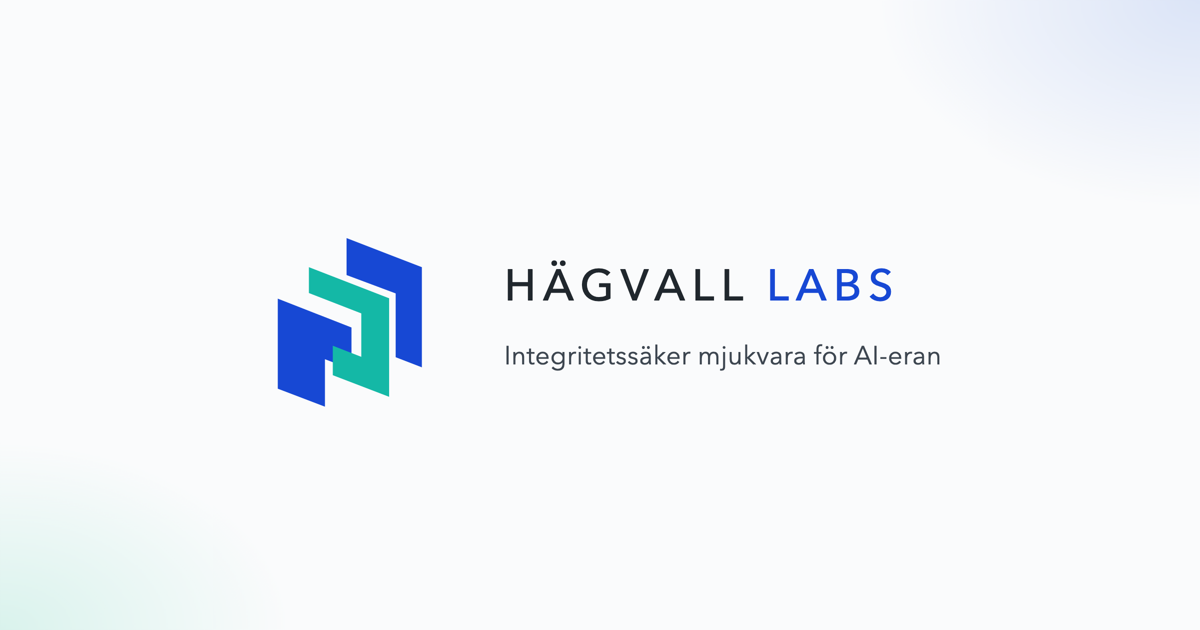
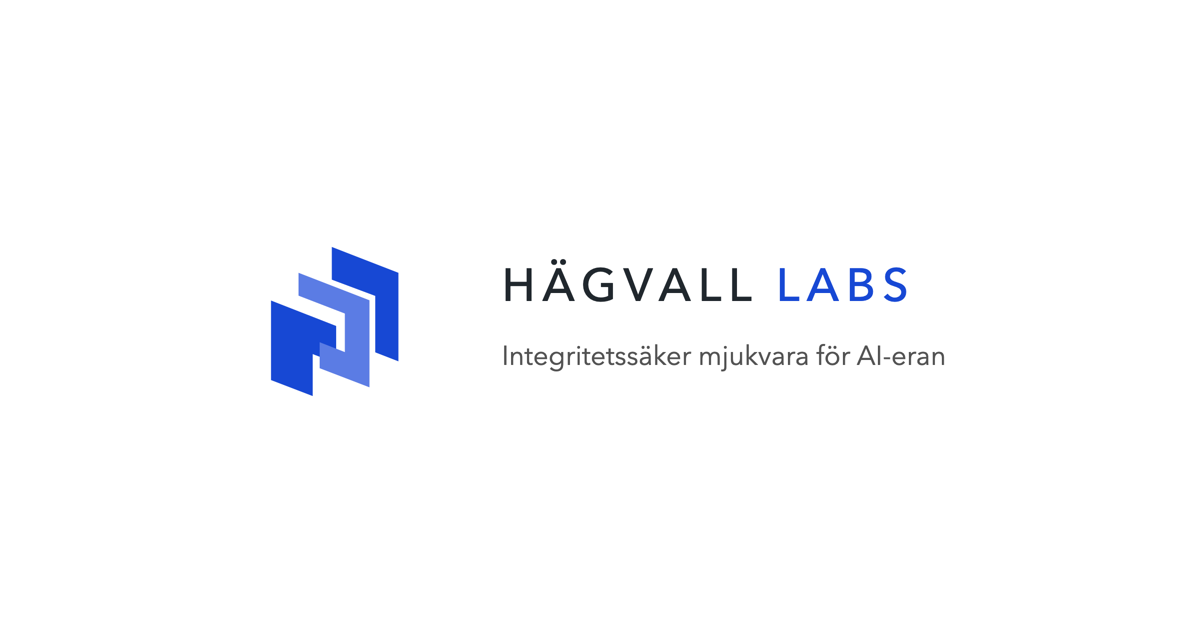
Refine monochrome cobalt brand styling

diff --git a/src/components/ui.tsx b/src/components/ui.tsx
@@ -46,21 +46,11 @@ export const sectionTitle = 'text-balance text-3xl font-semibold tracking-tight'
 export const sectionTitleSm =
   'text-balance text-2xl font-semibold tracking-tight'
 
-type Accent = 'cobalt' | 'teal'
+const cardClass =
+  'reveal rounded-2xl border border-neutral-200 bg-white p-6 transition-colors duration-200 hover:border-cobalt/40'
 
-// The teal accent uses teal-deep, not teal-brand: teal-brand lacks contrast
-// behind white text (see the brand rules in AGENTS.md).
-const cardClass: Record<Accent, string> = {
-  cobalt:
-    'reveal rounded-2xl border border-neutral-200 bg-white p-6 transition-colors duration-200 hover:border-cobalt/40',
-  teal: 'reveal rounded-2xl border border-neutral-200 bg-white p-6 transition-colors duration-200 hover:border-teal-deep/40',
-}
-
-const chipClass: Record<Accent, string> = {
-  cobalt:
-    'flex h-10 w-10 items-center justify-center rounded-xl bg-cobalt/10 text-cobalt',
-  teal: 'flex h-10 w-10 items-center justify-center rounded-xl bg-teal-deep/10 text-teal-deep',
-}
+const chipClass =
+  'flex h-10 w-10 items-center justify-center rounded-xl bg-cobalt/10 text-cobalt'
 
 /* Drives the .reveal entrances (classes in styles.css). Only elements
    strictly below the first viewport are hidden and animated in on scroll;
@@ -121,7 +111,7 @@ export function HeroGlows() {
       className="pointer-events-none absolute inset-0 -z-10"
     >
       <div className="glow glow-cobalt absolute -top-32 right-[-10%] size-112" />
-      <div className="glow glow-teal glow-delay absolute -left-48 top-40 size-96" />
+      <div className="glow glow-cobalt-soft glow-delay absolute -left-48 top-40 size-120" />
     </div>
   )
 }
@@ -131,12 +121,10 @@ export function HeroGlows() {
 export function Cards({
   items,
   icons,
-  accent,
   className,
 }: {
   items: ReadonlyArray<{ title: string; body: string }>
   icons?: ReadonlyArray<(props: { className?: string }) => React.ReactNode>
-  accent: Accent
   className?: string
 }) {
   return (
@@ -144,9 +132,9 @@ export function Cards({
       {items.map((item, i) => {
         const Icon = icons?.[i]
         return (
-          <div key={item.title} className={cardClass[accent]}>
+          <div key={item.title} className={cardClass}>
             <span
-              className={`${chipClass[accent]}${Icon ? '' : ' text-sm font-semibold'}`}
+              className={`${chipClass}${Icon ? '' : ' text-sm font-semibold'}`}
             >
               {Icon ? <Icon className="h-5 w-5" /> : i + 1}
             </span>

diff --git a/src/styles.css b/src/styles.css
@@ -3,8 +3,6 @@
 @theme {
   --color-cobalt: #1748d4;
   --color-cobalt-deep: #1239a8;
-  --color-teal-brand: #14b8a6;
-  --color-teal-deep: #0f766e;
   --color-ink: #20272d;
 }
 
@@ -99,11 +97,11 @@ textarea {
 /* Hero glows: radial gradients, not blur() filters. A large blurred element
    costs real paint time in the first frame and drags FCP below target. */
 .glow-cobalt {
-  background: radial-gradient(closest-side, rgb(23 72 212 / 0.14), transparent);
+  background: radial-gradient(closest-side, rgb(23 72 212 / 0.22), transparent);
 }
 
-.glow-teal {
-  background: radial-gradient(closest-side, rgb(20 184 166 / 0.14), transparent);
+.glow-cobalt-soft {
+  background: radial-gradient(closest-side, rgb(23 72 212 / 0.09), transparent);
 }
 
 @media (prefers-reduced-motion: no-preference) {

diff --git a/src/components/BrandSymbol.tsx b/src/components/BrandSymbol.tsx
@@ -5,10 +5,11 @@
 // The symbol geometry, single source for the component and the data-URI
 // favicon in __root.tsx. public/brand/hagvall-labs-symbol.svg carries the
 // same paths for the JSON-LD logo; regenerate it if these change.
+// Monochrome cobalt: the middle ribbon is a lighter tint of the same hue.
 export const BRAND_VIEWBOX = '210 110 580 580'
 export const BRAND_PATHS = [
   { fill: '#1748D4', d: 'M270 350 495 438 495 566 414 535 414 680 270 625Z' },
-  { fill: '#14B8A6', d: 'M365 254 610 349 610 650 438 584 438 494 525 528 525 395 365 333Z' },
+  { fill: '#5B7CE4', d: 'M365 254 610 349 610 650 438 584 438 494 525 528 525 395 365 333Z' },
   { fill: '#1748D4', d: 'M480 165 710 254 710 560 630 529 630 334 480 278Z' },
 ] as const
 

diff --git a/src/components/MaskeraPage.tsx b/src/components/MaskeraPage.tsx
@@ -450,7 +450,6 @@ export function MaskeraPage({ lang }: { lang: Lang }) {
           <Cards
             items={t.useCases}
             icons={useCaseIcons}
-            accent="cobalt"
             className="mt-8 sm:grid-cols-3"
           />
         </div>
@@ -463,7 +462,6 @@ export function MaskeraPage({ lang }: { lang: Lang }) {
         <Cards
           items={t.principles}
           icons={principleIcons}
-          accent="teal"
           className="mt-8 sm:grid-cols-3"
         />
       </section>

diff --git a/src/components/HomePage.tsx b/src/components/HomePage.tsx
@@ -505,7 +505,6 @@ export function HomePage({ lang }: { lang: Lang }) {
         <Cards
           items={t.services}
           icons={serviceIcons}
-          accent="cobalt"
           className="mt-10 sm:grid-cols-2"
         />
       </section>
@@ -519,7 +518,6 @@ export function HomePage({ lang }: { lang: Lang }) {
           <Cards
             items={t.build}
             icons={buildIcons}
-            accent="teal"
             className="mt-10 sm:grid-cols-3"
           />
         </div>

diff --git a/src/components/ContactPage.tsx b/src/components/ContactPage.tsx
@@ -145,11 +145,7 @@ export function ContactPage({ lang }: { lang: Lang }) {
           <h2 className={`reveal ${sectionTitleSm}`}>
             {t.stepsTitle}
           </h2>
-          <Cards
-            items={t.steps}
-            accent="cobalt"
-            className="mt-8 sm:grid-cols-3"
-          />
+          <Cards items={t.steps} className="mt-8 sm:grid-cols-3" />
         </div>
       </section>
     </>

diff --git a/AGENTS.md b/AGENTS.md
@@ -143,7 +143,7 @@ Known pitfalls that break the 100s (learned the hard way: don't reintroduce):
 - **A render-blocking stylesheet costs ~8 Performance points.** The Tailwind CSS is inlined in `<head>` in production (`styles.css?inline` in `__root.tsx`); dev uses a normal `?url` stylesheet link for HMR. Keep it that way.
 - **Any above-fold image request costs ~1 Performance point.** Lighthouse's simulated (lantern) LCP pessimistically adds a network round-trip for image requests near the LCP paint, even when the LCP element is text. That is why the logo is an inline SVG component (`src/components/BrandSymbol.tsx`, not `<img>`) and the favicon is a data URI in `__root.tsx`. Real `<img>` content is fine below the fold with `loading="lazy"`.
 - **The same RTT penalty applies to an extra JS chunk near the paint.** A module shared only by two page components (icons, the MaskingDemo) gets split into its own chunk and requested after the page chunk: that alone drops Performance to 99. Shared code goes in a module that `__root.tsx` statically imports (`ui.tsx`, `seo.ts`): it is bundled into the always-loaded root chunk, so pages reference it without an extra request. Heavy page-specific pieces (MaskPreview, the icons) stay duplicated per page instead, so they do not bloat the root chunk.
-- **Large `blur()` filters cost first-paint time.** The hero glows are radial-gradient divs (`glow-cobalt`/`glow-teal` in `styles.css`), not `blur-3xl` elements.
+- **Large `blur()` filters cost first-paint time.** The hero glows are radial-gradient divs (`glow-cobalt`/`glow-cobalt-soft` in `styles.css`), not `blur-3xl` elements.
 - The devtools overlay must stay wrapped in `import.meta.env.DEV` in `__root.tsx`.
 
 ## Site structure
@@ -170,7 +170,7 @@ Rules already applied here: keep them intact: skip link ("Hoppa till innehållet
 
 ### Brand
 
-`public/brand/` holds only what the site references: `hagvall-labs-symbol.svg` (the JSON-LD logo) and `og-image.png`. The symbol geometry lives as `BRAND_PATHS`/`BRAND_VIEWBOX` in `src/components/BrandSymbol.tsx`: both the rendered component and the data-URI favicon in `__root.tsx` are built from it, so the only copy outside code is the public SVG (regenerate it if the paths change). The wordmark is letterspaced uppercase Avenir Next Medium, "HÄGVALL" in ink and "LABS" in cobalt; the site header renders it as system-font text (`uppercase tracking-[0.12em] font-medium` in `__root.tsx`) and the OG image carries the same treatment. There are no standalone logo lockup files; if one is needed, outline the wordmark from Avenir Next Medium (0.15em tracking) next to the symbol paths. Social cards use `public/brand/og-image.png` (1200x630, symbol + wordmark + tagline, referenced in `__root.tsx` with `summary_large_image`); regenerate it if the brand changes. Brand colors are Tailwind theme tokens in `src/styles.css`: `cobalt` #1748d4 (primary/CTAs), `cobalt-deep` (hover), `teal-brand` #14b8a6 (decorative only: insufficient contrast for white text; use `teal-deep` #0f766e behind white text), `ink` #20272d (text).
+`public/brand/` holds only what the site references: `hagvall-labs-symbol.svg` (the JSON-LD logo) and `og-image.png`. The symbol geometry lives as `BRAND_PATHS`/`BRAND_VIEWBOX` in `src/components/BrandSymbol.tsx`: both the rendered component and the data-URI favicon in `__root.tsx` are built from it, so the only copy outside code is the public SVG (regenerate it if the paths change). The wordmark is letterspaced uppercase Avenir Next Medium, "HÄGVALL" in ink and "LABS" in cobalt; the site header renders it as system-font text (`uppercase tracking-[0.12em] font-medium` in `__root.tsx`) and the OG image carries the same treatment. There are no standalone logo lockup files; if one is needed, outline the wordmark from Avenir Next Medium (0.15em tracking) next to the symbol paths. Social cards use `public/brand/og-image.png` (1200x630, symbol + wordmark + tagline, referenced in `__root.tsx` with `summary_large_image`); regenerate it if the brand changes. Brand colors are Tailwind theme tokens in `src/styles.css`: `cobalt` #1748d4 (primary/CTAs), `cobalt-deep` (hover), `ink` #20272d (text). The symbol is monochrome cobalt: the middle ribbon is a lighter tint of the same hue (#5b7ce4), there is no second brand color.
 
 ## Conventions
 
